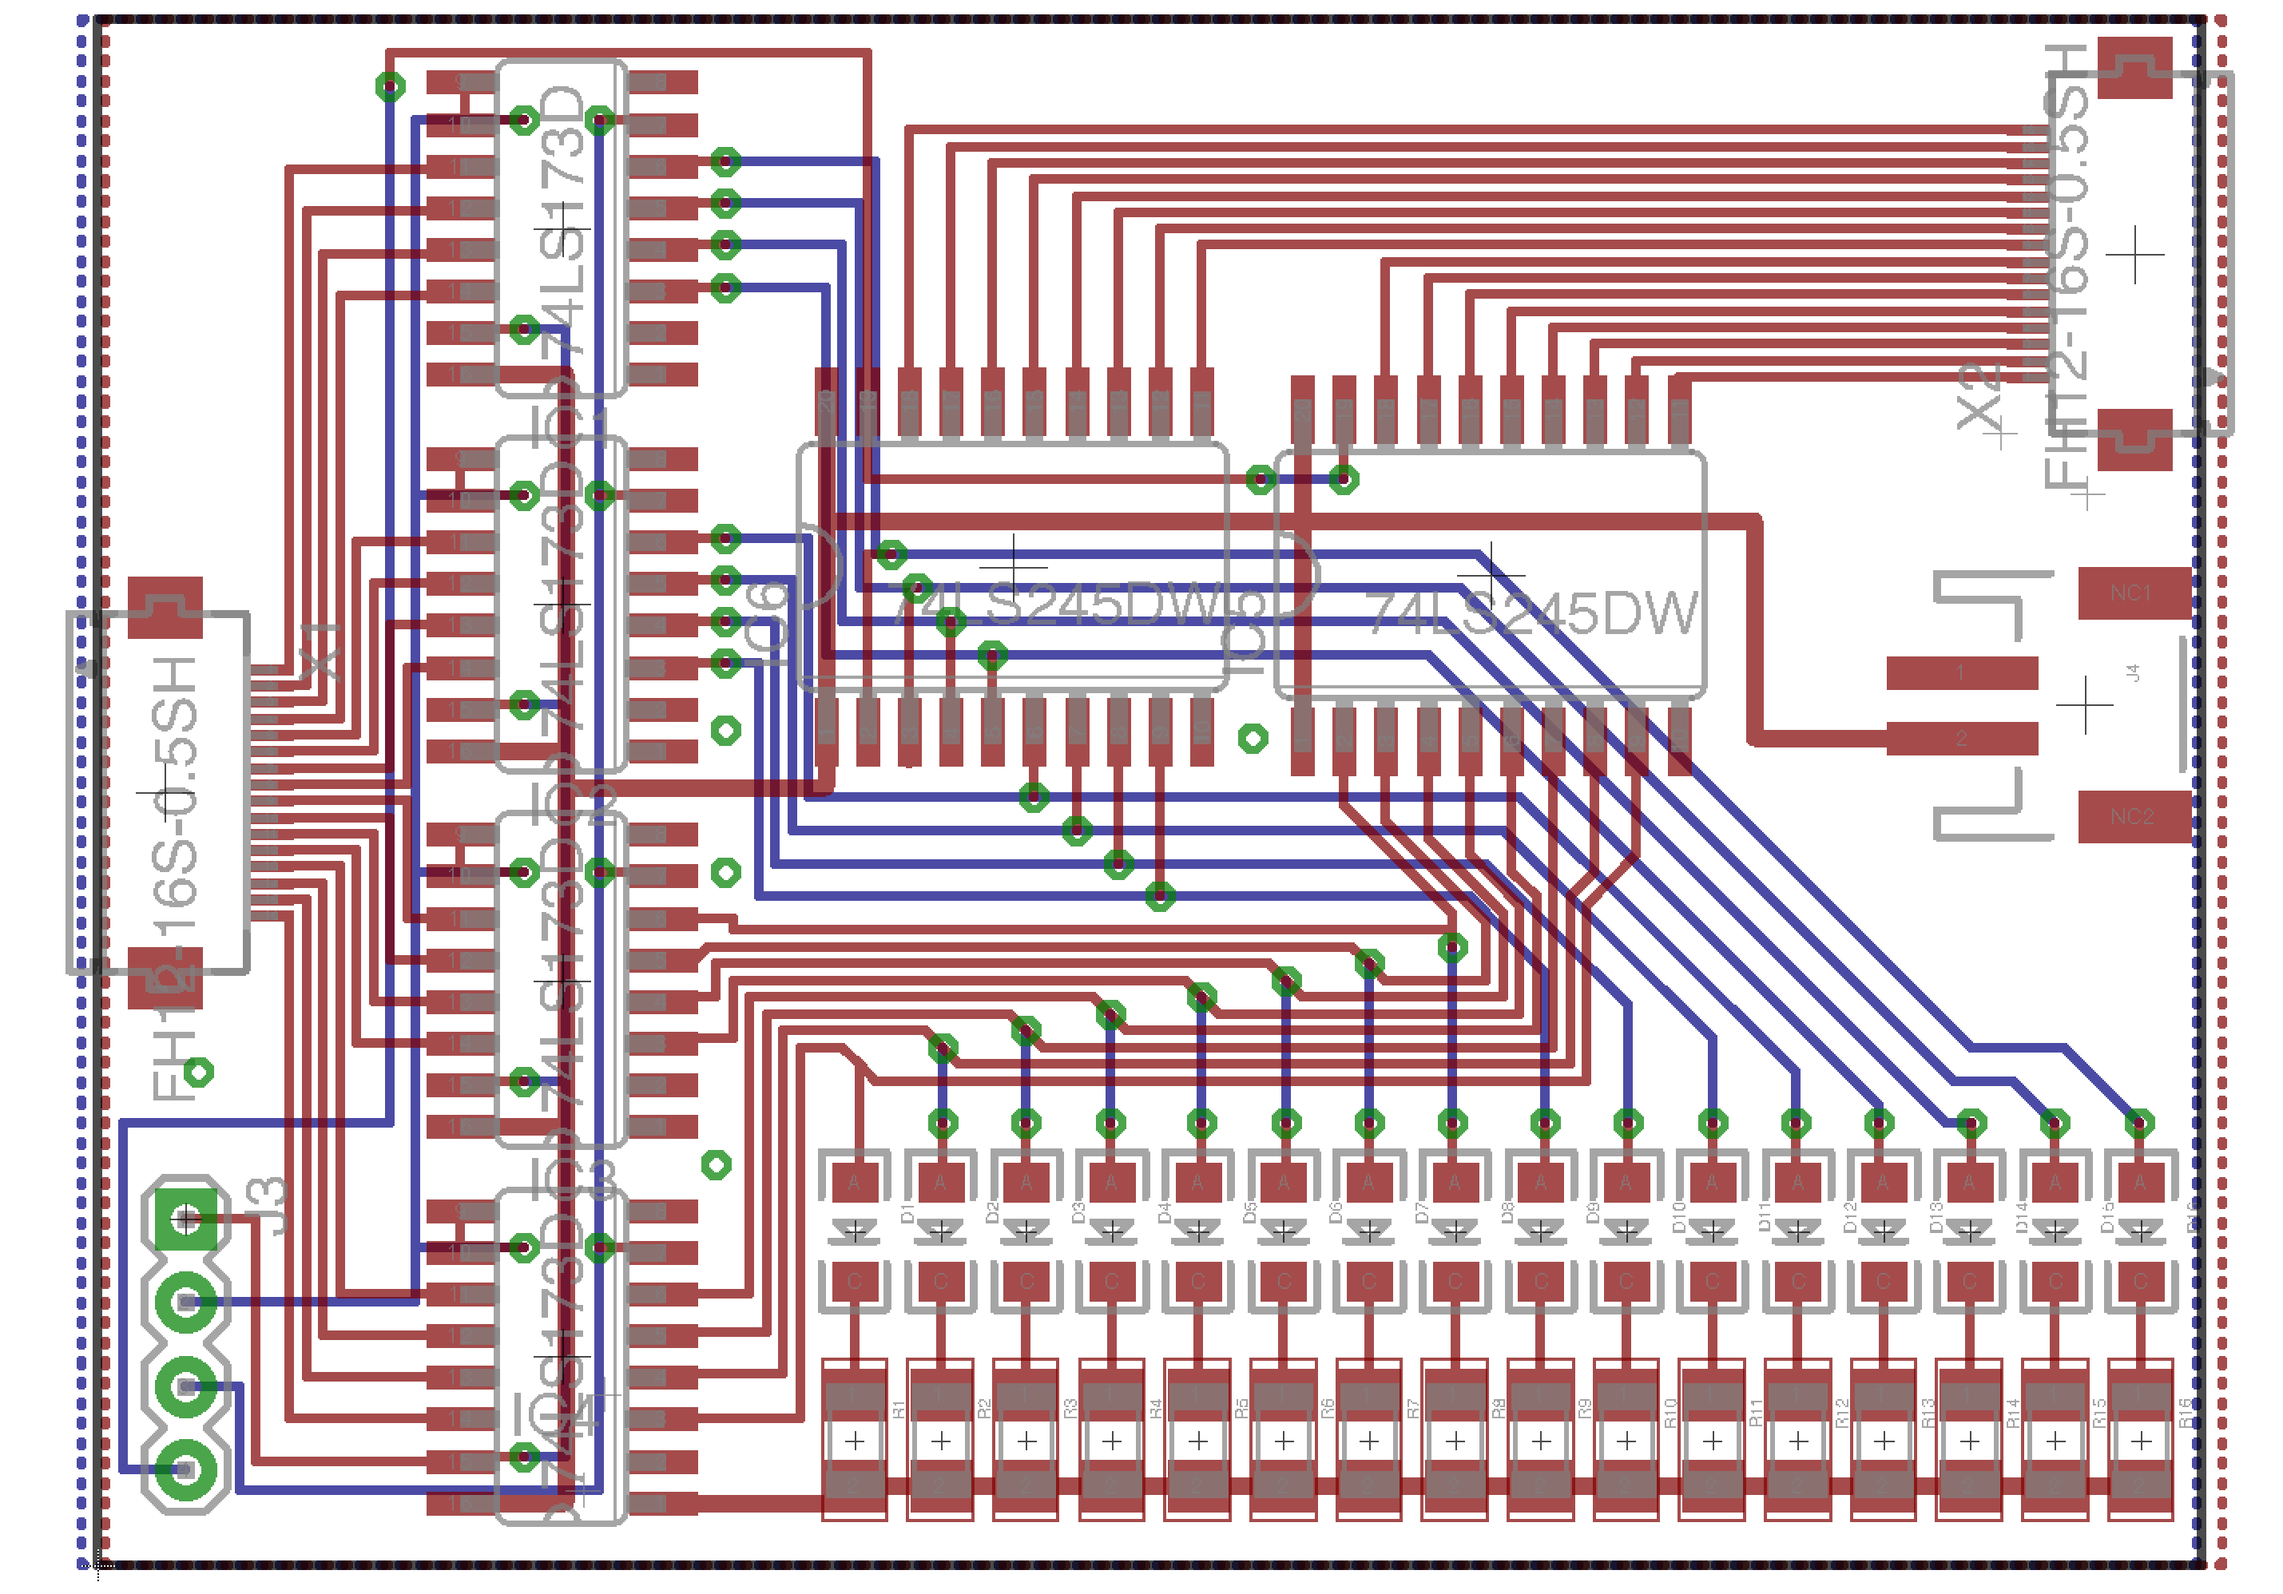
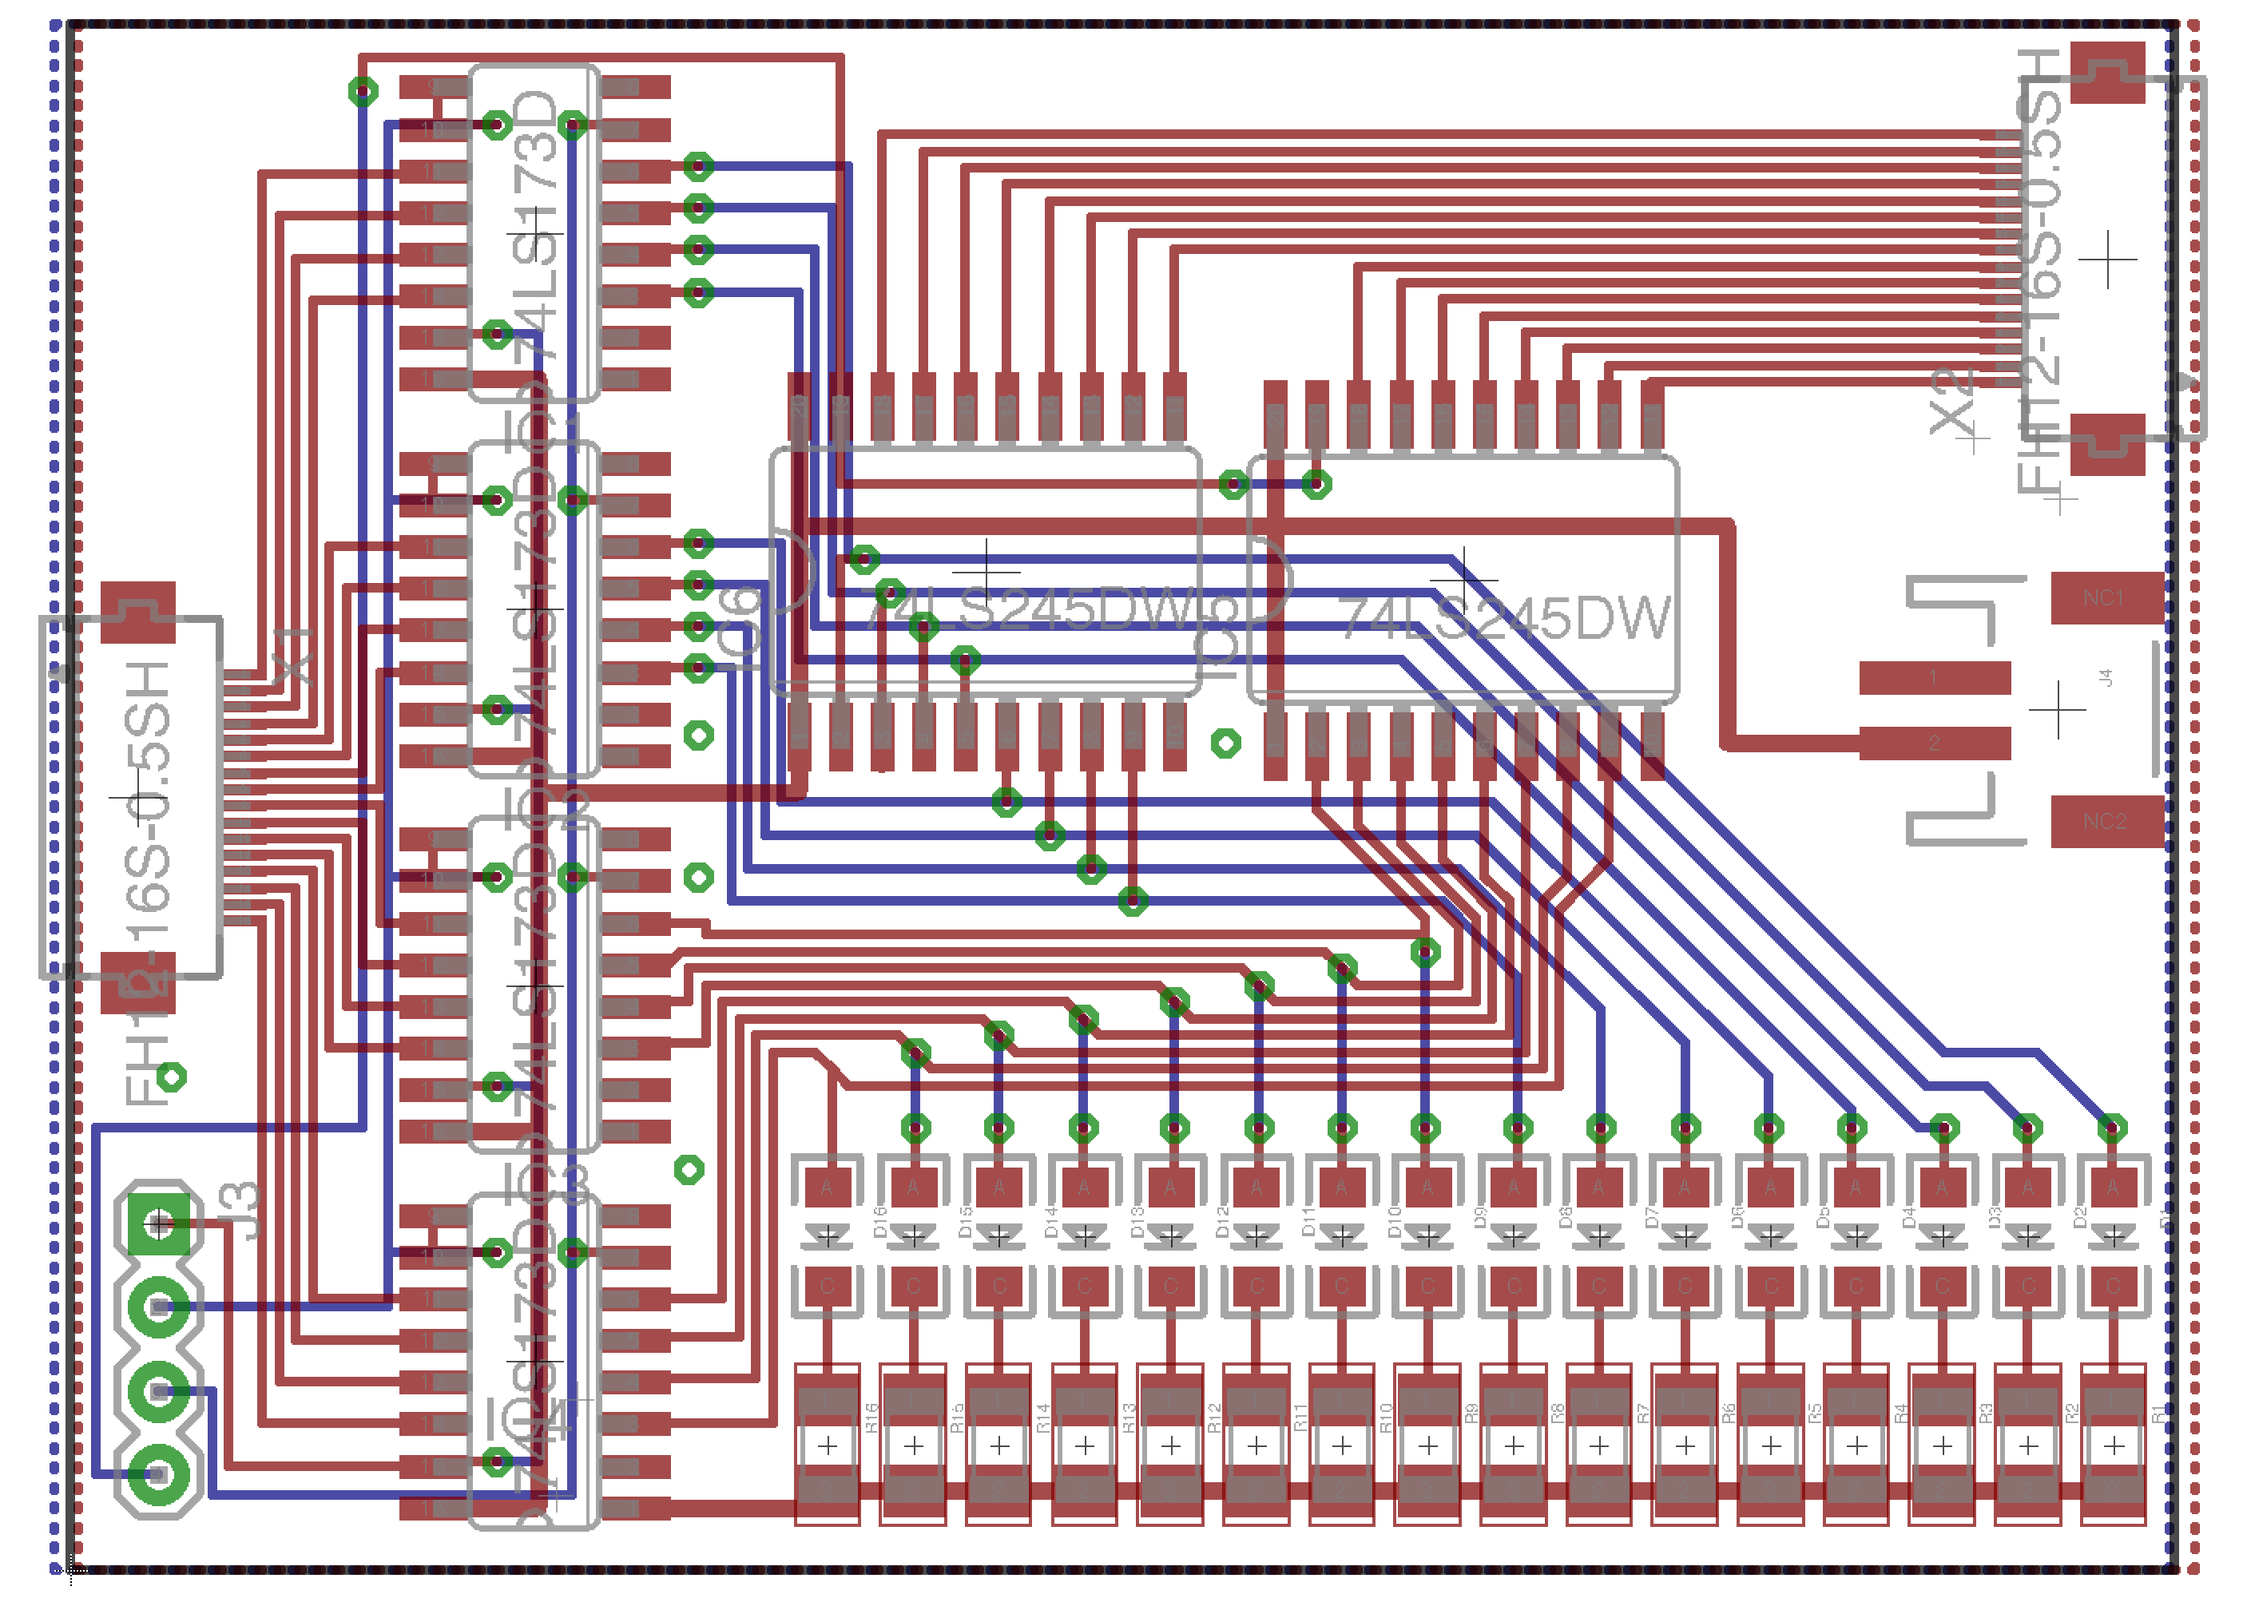
fixes to images on the register-3 post

diff --git a/_posts/2017-05-28-p18240-register3.md b/_posts/2017-05-28-p18240-register3.md
@@ -10,12 +10,14 @@ Like many new concepts to me, the first time doesn't always end perfectly. In th
 
 Here is what I came up with:
 {% include image.html url="/assets/images/blog/register-small-v3-sch.png"
-description="Note the now flipped connectors."%}
+description="The orientation of the design changed a bit to accomodate the flipped connections"%}
 
+<br>
+And the new board:
 {% include image.html url="/assets/images/blog/register-small-v3-brd.png"
 description="I managed to keep the same footprint."%}
 
-All of the circuitry in the registers is actually ignorant of the bit order, however in the final product, I would like the flow of information to go left to right, and I would like the LEDs to read out with the MSB on the left. Placing these two constraints on the board alongside the routing meant that without redoing the *entire* board, the input header would be the one that is "counterintuitive".
+All of the circuitry in the registers is actually ignorant of the bit order, however in the final product, I would like the flow of information to go left to right, I would like the LEDs to read out with the MSB on the left, and I would like the bit order to read LSB on top in general. Placing these two constraints on the board alongside the routing meant that without redoing the *entire* board, the output header would be the one that is "counterintuitive".
 
 Well, I'm at least glad that I learned this on the first board of the project rather than on the last. I know in the previous post I said I'd move onto the ALU next, but what this incident made me realize is that I should lay out how this will roughly look put together to see if everything will be compatible. That is probably going to be what my next post is on, but then again, who knows, I didn't expect to be writing this post.
 
